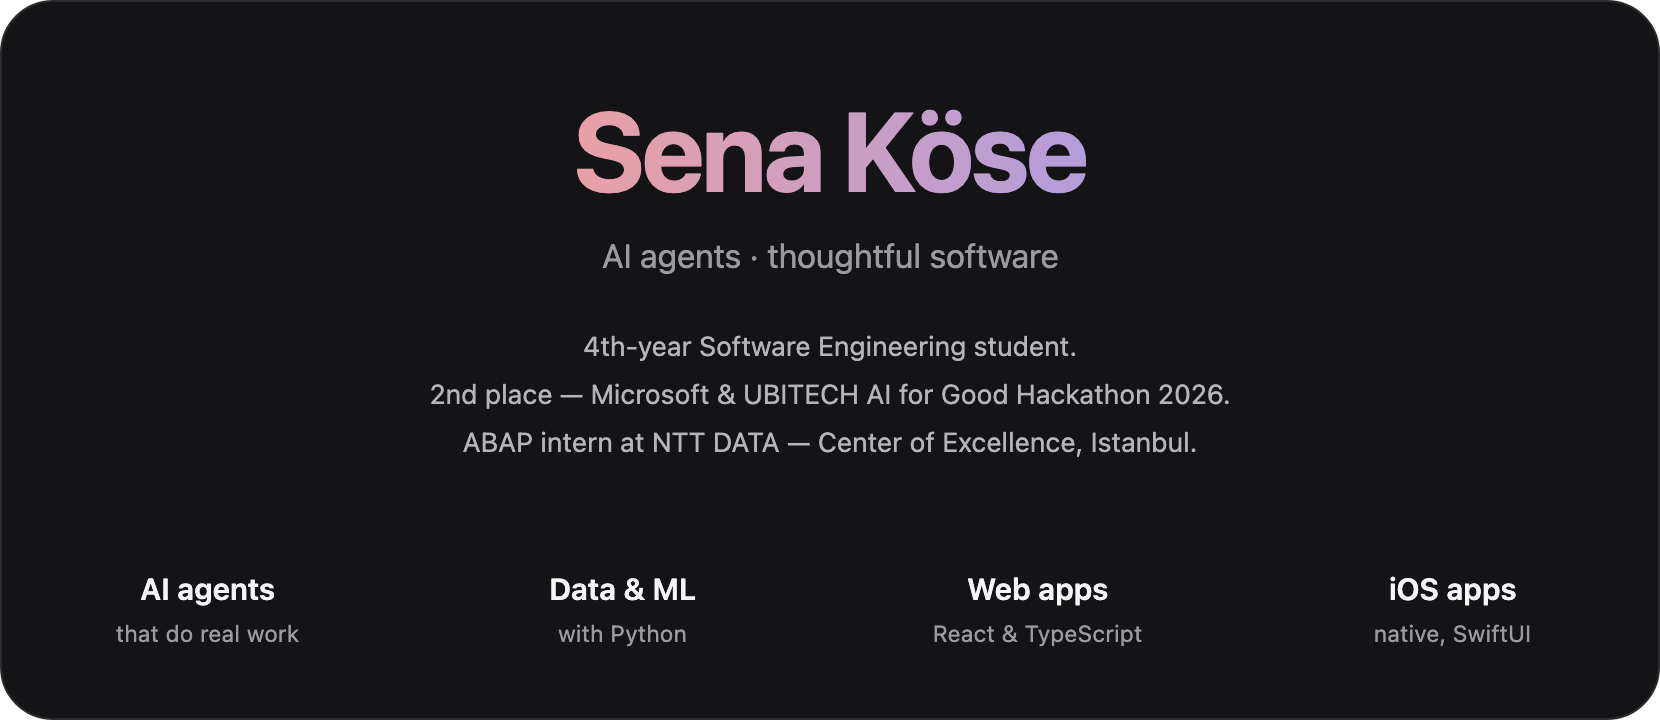
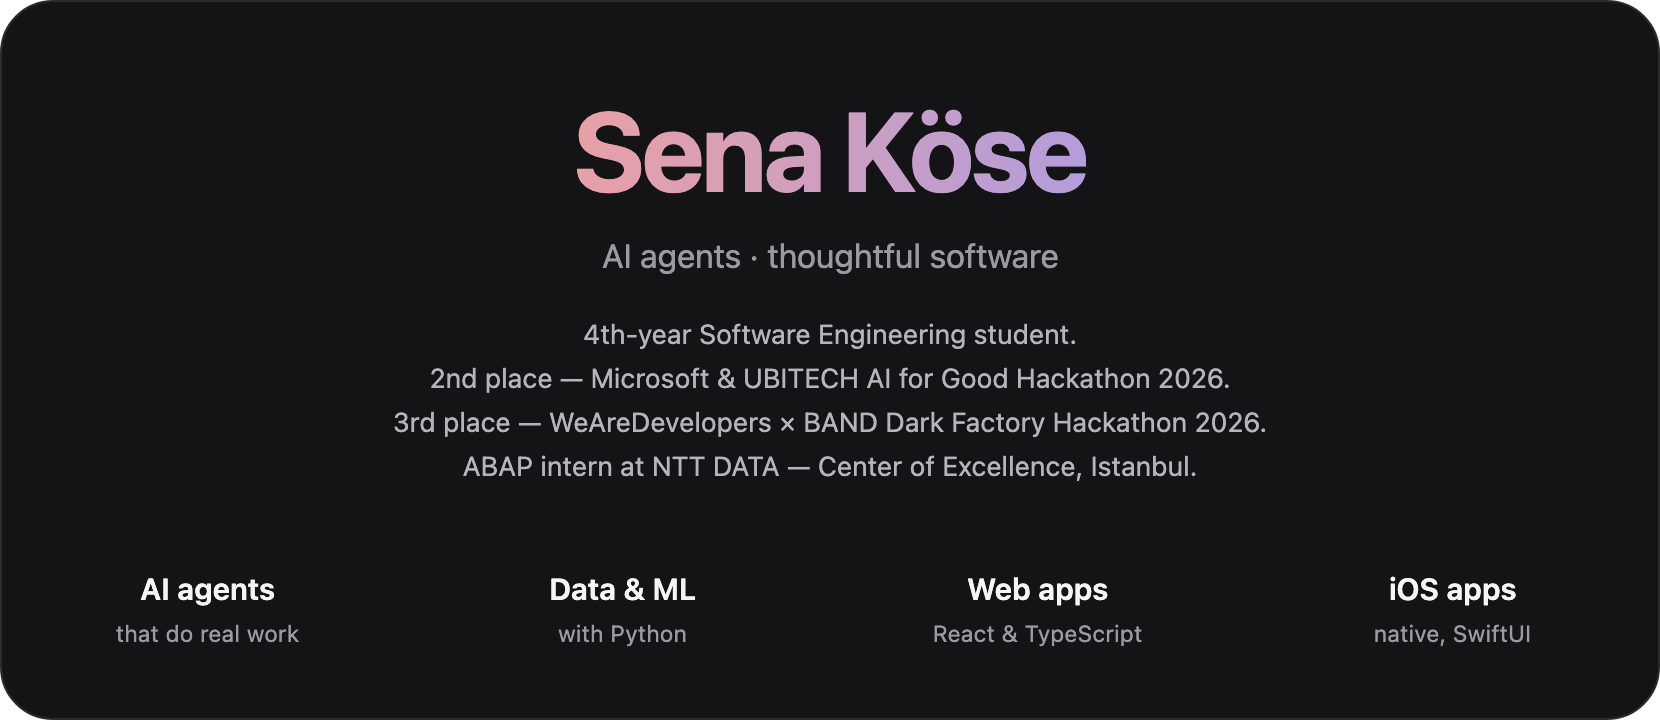
Hero: add 3rd place at the WeAreDevelopers x BAND Dark Factory hackathon

Changed region(s): [[0.2458, 0.4583, 0.7681, 0.6722]]

diff --git a/build_cards.py b/build_cards.py
@@ -58,11 +58,12 @@ def poster(name="poster-hero.svg", w=830, h=360):
     bio = [
         "4th-year Software Engineering student.",
         "2nd place — Microsoft & UBITECH AI for Good Hackathon 2026.",
+        "3rd place — WeAreDevelopers × BAND Dark Factory Hackathon 2026.",
         "ABAP intern at NTT DATA — Center of Excellence, Istanbul.",
     ]
     for i, line in enumerate(bio):
         p.append(
-            f'  <text class="t" x="{cx}" y="{178 + i*24}" text-anchor="middle" '
+            f'  <text class="t" x="{cx}" y="{172 + i*22}" text-anchor="middle" '
             f'font-size="13.5" fill="{BODY}">{esc(line)}</text>'
         )
     p.append(f'  <line x1="90" y1="262" x2="{w-90}" y2="262" stroke="url(#grad)" stroke-width="1" opacity="0.55"/>')

diff --git a/README.md b/README.md
@@ -2,7 +2,7 @@
 
 <br/>
 
-<img width="830" src="./poster-hero.png" alt="Sena Kose — AI agents · thoughtful software. 4th-year Software Engineering student, 2nd place at the Microsoft & UBITECH AI for Good Hackathon 2026, ABAP intern at NTT DATA's Center of Excellence, Istanbul." />
+<img width="830" src="./poster-hero.png" alt="Sena Kose — AI agents · thoughtful software. 4th-year Software Engineering student, 2nd place at the Microsoft & UBITECH AI for Good Hackathon 2026, 3rd place at the WeAreDevelopers x BAND Dark Factory Hackathon 2026, ABAP intern at NTT DATA's Center of Excellence, Istanbul." />
 
 <br/><br/>
 
